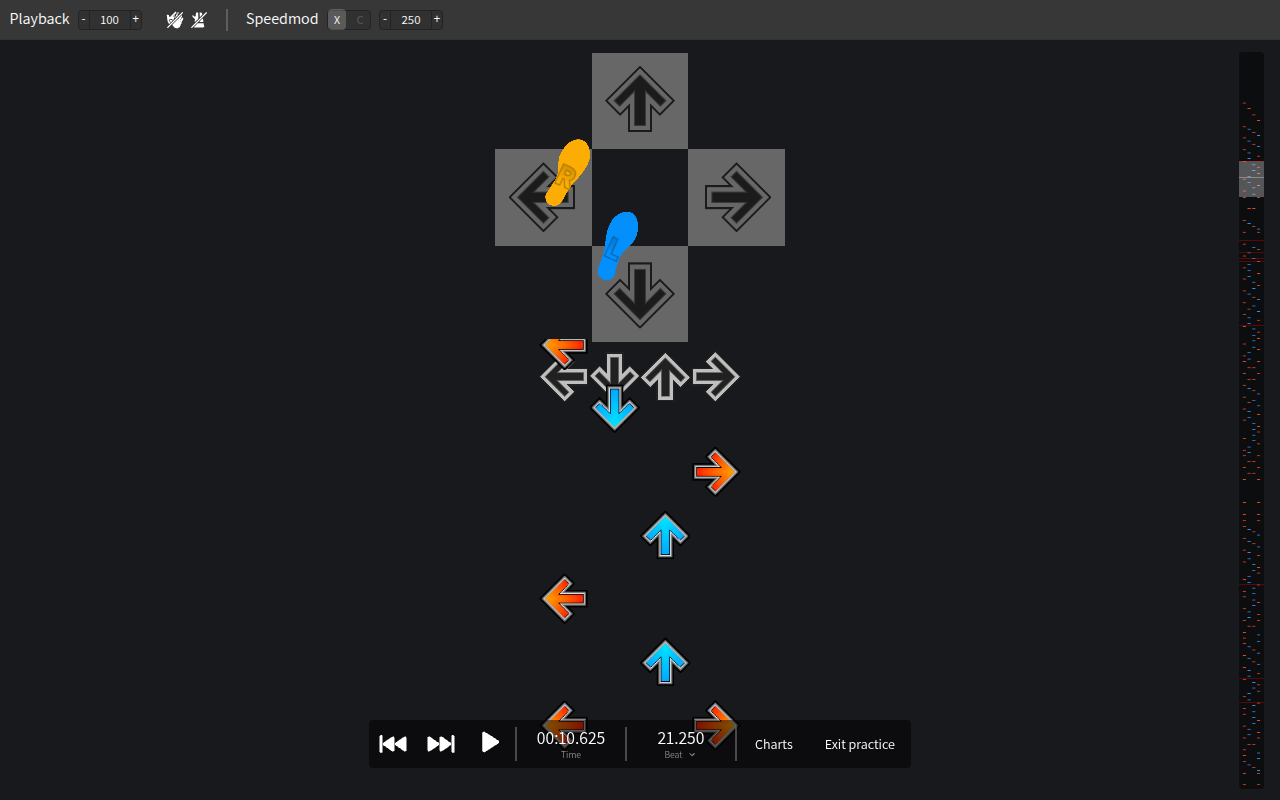
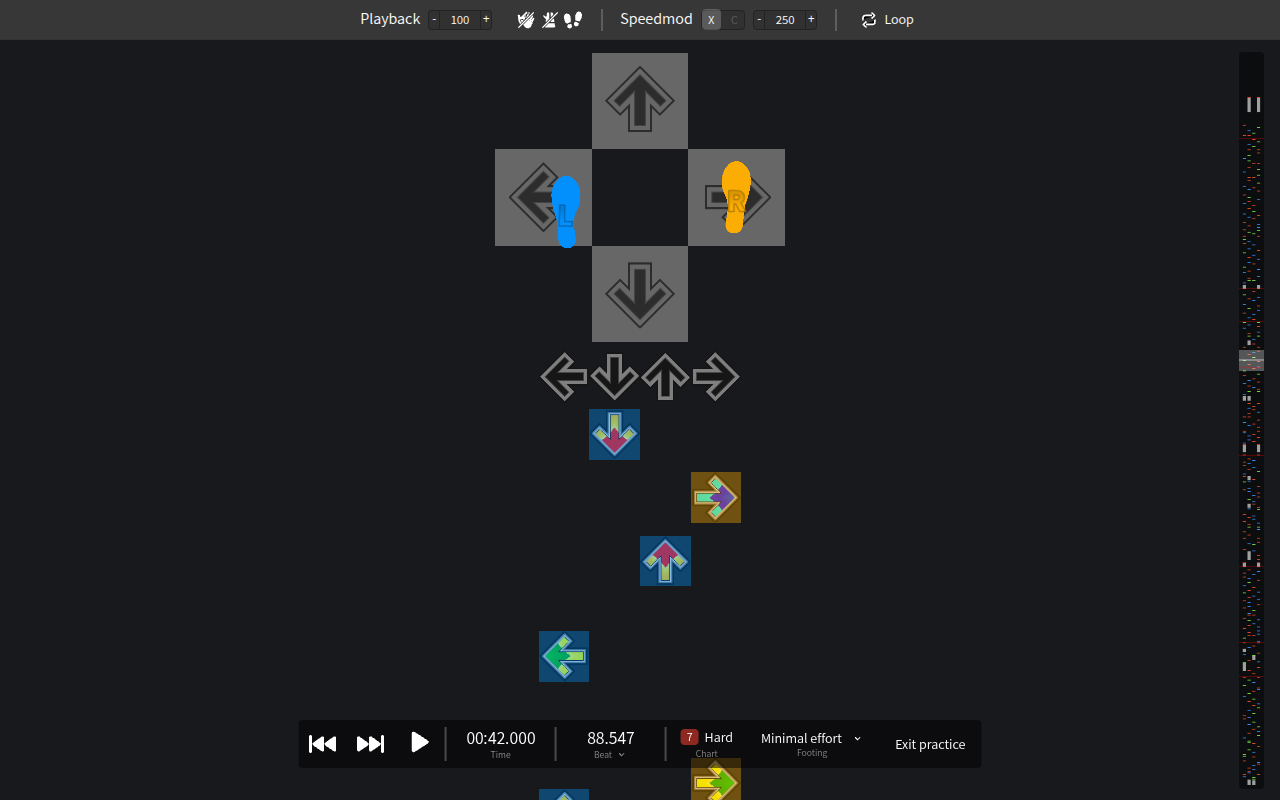
Show the current chart on the practice Chart button, and let it close the list
The practice bottom bar's Charts button becomes a Chart button that shows
the current chart, like the Footing menu beside it: the chart's level in
a badge colored like the chart list's, its difficulty, and a "Chart"
caption. It follows chart switches and meter or difficulty edits.

Clicking it opens the chart list, and clicking it again closes it. The
button looks pressed while the list is open, including when the list was
opened with the keyboard shortcut; the window manager now emits
windowsChanged so the button knows when a window opens or closes.

On phones the chart list is bigger than the screen, and held sideways it
covered the button and pushed its own close button off the top. In
practice mode the bottom bar now stays above windows, so the button can
always close the list, and while the list is open the bar is opaque so
the list doesn't show through it.

The guide describes the button, and its practice screenshot shows the
current screen with "YOU".

diff --git a/app/index.css b/app/index.css
@@ -855,27 +855,33 @@ textarea {
   background-color: var(--secondary-bg-hover);
 }
 
-.chart-list-item .Beginner {
+.chart-list-item .Beginner,
+#status-widget .practice-chart-meter.Beginner {
   background-color: rgb(59, 108, 128);
   color: white;
 }
-.chart-list-item .Easy {
+.chart-list-item .Easy,
+#status-widget .practice-chart-meter.Easy {
   background-color: rgb(48, 134, 85);
   color: white;
 }
-.chart-list-item .Medium {
+.chart-list-item .Medium,
+#status-widget .practice-chart-meter.Medium {
   background-color: rgb(160, 143, 69);
   color: white;
 }
-.chart-list-item .Hard {
+.chart-list-item .Hard,
+#status-widget .practice-chart-meter.Hard {
   background-color: rgb(142, 41, 33);
   color: white;
 }
-.chart-list-item .Challenge {
+.chart-list-item .Challenge,
+#status-widget .practice-chart-meter.Challenge {
   background-color: rgb(139, 27, 158);
   color: white;
 }
-.chart-list-item .Edit {
+.chart-list-item .Edit,
+#status-widget .practice-chart-meter.Edit {
   background-color: rgb(117, 117, 117);
   color: white;
 }
@@ -1477,9 +1483,12 @@ body.practice .practice-hide {
 }
 
 /* In practice mode the status bar is only the playback bar, so menus in it
-   open upward without being clipped, and the editing bar stays hidden */
+   open upward without being clipped, and the editing bar stays hidden. It
+   stays above windows, so the chart button can close the chart list even
+   where the list covers it, as on phones held sideways */
 body.practice #status-widget {
   overflow: visible;
+  z-index: 2;
 }
 
 body.practice #status-widget .edit-bar {
@@ -1505,6 +1514,44 @@ body.practice #status-widget .dropdown-items {
   font-size: 0.875rem;
   padding: 0 0.25rem;
   gap: 0.375rem;
+}
+
+/* The chart button: the current chart over a "Chart" caption, like the
+   footing menu. The meter is colored like the chart list's */
+#status-widget button.practice-chart {
+  display: flex;
+  flex-direction: column;
+  align-items: center;
+  justify-content: center;
+  gap: 0.125rem;
+  padding: 0 0.75rem;
+}
+
+#status-widget .practice-chart-name {
+  display: flex;
+  align-items: center;
+  gap: 0.375rem;
+}
+
+#status-widget .practice-chart-meter {
+  min-width: 1.125rem;
+  padding: 0 0.25rem;
+  border-radius: 0.25rem;
+  font-size: 0.75rem;
+  line-height: 1rem;
+  text-align: center;
+}
+
+#status-widget .practice-chart-caption {
+  font-size: 0.6rem;
+  color: var(--text-color-secondary);
+}
+
+/* While the chart list is open, the bar is opaque, so the list doesn't show
+   through it where they overlap. It still looks the same over the stage */
+body.practice #status-widget:has(.practice-chart.active) .playback-bar {
+  background: linear-gradient(var(--widget-bg), var(--widget-bg)),
+    var(--editor-bg);
 }
 
 /* On narrow screens, such as phones, the practice bar wraps onto two rows

diff --git a/app/src/gui/element/status/PracticeChartButton.tsx b/app/src/gui/element/status/PracticeChartButton.tsx
@@ -1,0 +1,54 @@
+import { useEffect, useState } from "react"
+import { App } from "../../../App"
+import { EventHandler } from "../../../util/EventHandler"
+import { Keybinds } from "../../../util/Keybinds"
+import { ChartListWindow } from "../../window/ChartList/ChartListWindow"
+import { WindowManager } from "../../window/WindowManager"
+
+// The id of ChartListWindow
+const CHART_LIST = "chart_list"
+
+// The practice chart button: the current chart over a "Chart" caption, like
+// the footing menu beside it. It opens the chart list, or closes it if it's
+// already open.
+export function PracticeChartButton(props: { app: App }) {
+  const [, setVersion] = useState(0)
+
+  useEffect(() => {
+    const changed = () => setVersion(version => version + 1)
+    EventHandler.on("chartLoaded", changed)
+    EventHandler.on("chartModified", changed)
+    EventHandler.on("windowsChanged", changed)
+    return () => {
+      EventHandler.off("chartLoaded", changed)
+      EventHandler.off("chartModified", changed)
+      EventHandler.off("windowsChanged", changed)
+    }
+  }, [])
+
+  const chart = props.app.chartManager.loadedChart
+  const open = WindowManager.isWindowOpen(CHART_LIST)
+  return (
+    <button
+      tabIndex={-1}
+      className={`practice-button practice-chart ${open ? "active" : ""}`}
+      ref={Keybinds.createReactKeybindTooltip`Choose a chart ${"openChart"}`}
+      onClick={e => {
+        if (WindowManager.isWindowOpen(CHART_LIST))
+          WindowManager.closeWindow(CHART_LIST)
+        else WindowManager.openWindow(ChartListWindow())
+        e.currentTarget.blur()
+      }}
+    >
+      <span className="practice-chart-name">
+        {chart && (
+          <span className={`practice-chart-meter ${chart.difficulty}`}>
+            {chart.meter}
+          </span>
+        )}
+        {chart?.difficulty ?? "None"}
+      </span>
+      <span className="practice-chart-caption">Chart</span>
+    </button>
+  )
+}

diff --git a/app/src/gui/element/status/PlaybackBar.tsx b/app/src/gui/element/status/PlaybackBar.tsx
@@ -8,8 +8,7 @@ import { Options } from "../../../util/Options"
 import { PracticeMode } from "../../../util/PracticeMode"
 import { ReactIcon } from "../../Icons"
 import { DropdownInput } from "../../inputs/DropdownInput"
-import { ChartListWindow } from "../../window/ChartList/ChartListWindow"
-import { WindowManager } from "../../window/WindowManager"
+import { PracticeChartButton } from "./PracticeChartButton"
 import { TimeCounters } from "./TimeCounters"
 
 export function PlaybackBar(props: {
@@ -131,19 +130,7 @@ export function PlaybackBar(props: {
       {practice && (
         <>
           <div className="playback-separator" />
-          {Flags.openWindows && (
-            <button
-              tabIndex={-1}
-              className="practice-button"
-              ref={Keybinds.createReactKeybindTooltip`Choose a chart ${"openChart"}`}
-              onClick={e => {
-                WindowManager.openWindow(ChartListWindow())
-                e.currentTarget.blur()
-              }}
-            >
-              Charts
-            </button>
-          )}
+          {Flags.openWindows && <PracticeChartButton app={props.app} />}
           <div
             className="playback-counter practice-footing"
             ref={Keybinds.createReactKeybindTooltip`How the bot chooses your feet`}

diff --git a/app/src/gui/window/WindowManager.tsx b/app/src/gui/window/WindowManager.tsx
@@ -1,5 +1,12 @@
-import { createContext, CSSProperties, ReactNode, useState } from "react"
+import {
+  createContext,
+  CSSProperties,
+  ReactNode,
+  useEffect,
+  useState,
+} from "react"
 import { App } from "../../App"
+import { EventHandler } from "../../util/EventHandler"
 import { Window } from "./Window"
 
 export interface WindowData {
@@ -90,6 +97,11 @@ export function WindowManagerComponent({ app }: { app: App | null }) {
   function isBlocked() {
     return windows.some(window => window.blocking)
   }
+
+  // Lets buttons that open a window show whether it's open
+  useEffect(() => {
+    EventHandler.emit("windowsChanged")
+  }, [windows])
 
   if (!app) return <></>
 

diff --git a/guide/footnotes/index.md b/guide/footnotes/index.md
@@ -32,7 +32,7 @@ The footing is a suggestion, so trust your body when a step feels wrong.
 2. **Dancing bot:** the pad with the two feet.
 3. **Targets:** arrows rise into these, just under the bot. Once an arrow passes the targets, it slides away under the pad.
 4. **Note layout:** the strip on the right shows the whole chart. Click or drag on it to jump to any part of the song.
-5. **Bottom bar:** skip to the start or end, play or pause, the current time and beat, **Charts** to switch difficulty, **Footing** to choose how the bot picks your feet, and **Exit practice**.
+5. **Bottom bar:** skip to the start or end, play or pause, the current time and beat, **Chart** to see and switch the difficulty, **Footing** to choose how the bot picks your feet, and **Exit practice**.
 
 On a phone held sideways, the screen is too short to stack the bot above the targets, so the bot goes on the left with the targets beside it, both shown larger.
 

diff --git a/guide/footnotes/loading-songs.md b/guide/footnotes/loading-songs.md
@@ -37,8 +37,9 @@ Uploaded songs stay in your browser, so you only upload a song once. The next ti
 Songs usually have several charts, from Beginner to Challenge.
 The home page lists them all when you load a song from a link.
 
-While practicing, press **Charts** in the bottom bar, or <kbd>Ctrl</kbd>+<kbd>Shift</kbd>+<kbd>O</kbd> (<kbd>⌘</kbd>+<kbd>Shift</kbd>+<kbd>O</kbd> on a Mac), to open the chart list.
-Pick a game type at the top, then click a chart to switch to it.
+While practicing, the **Chart** button in the bottom bar shows the current chart.
+Press it, or <kbd>Ctrl</kbd>+<kbd>Shift</kbd>+<kbd>O</kbd> (<kbd>⌘</kbd>+<kbd>Shift</kbd>+<kbd>O</kbd> on a Mac), to open the chart list.
+Pick a game type at the top, then click a chart to switch to it. Press **Chart** again to close the list.
 
 The dancing bot works with **dance single**, **dance double**, **pump single** and **pump double** charts.
 

diff --git a/guide/footnotes/controls.md b/guide/footnotes/controls.md
@@ -17,7 +17,7 @@ Everything you need while practicing is on screen. The keyboard shortcuts below 
 - **Skip to start** and **Skip to end**.
 - **Play** and **Pause**.
 - **Time** and **Beat:** click either one to type the position you want to jump to.
-- **Charts:** opens the chart list, so you can switch to another difficulty.
+- **Chart:** shows the current chart's level and difficulty, such as **7 Hard**. Click it to open the chart list and switch to another difficulty, and click it again to close the list.
 - **Footing:** chooses how the bot picks your feet: **Minimal effort**, **Natural** or **Alternating**. See [How the bot chooses your feet](./footing).
 - **Exit practice:** switches to the full SMEditor chart editor.
 
